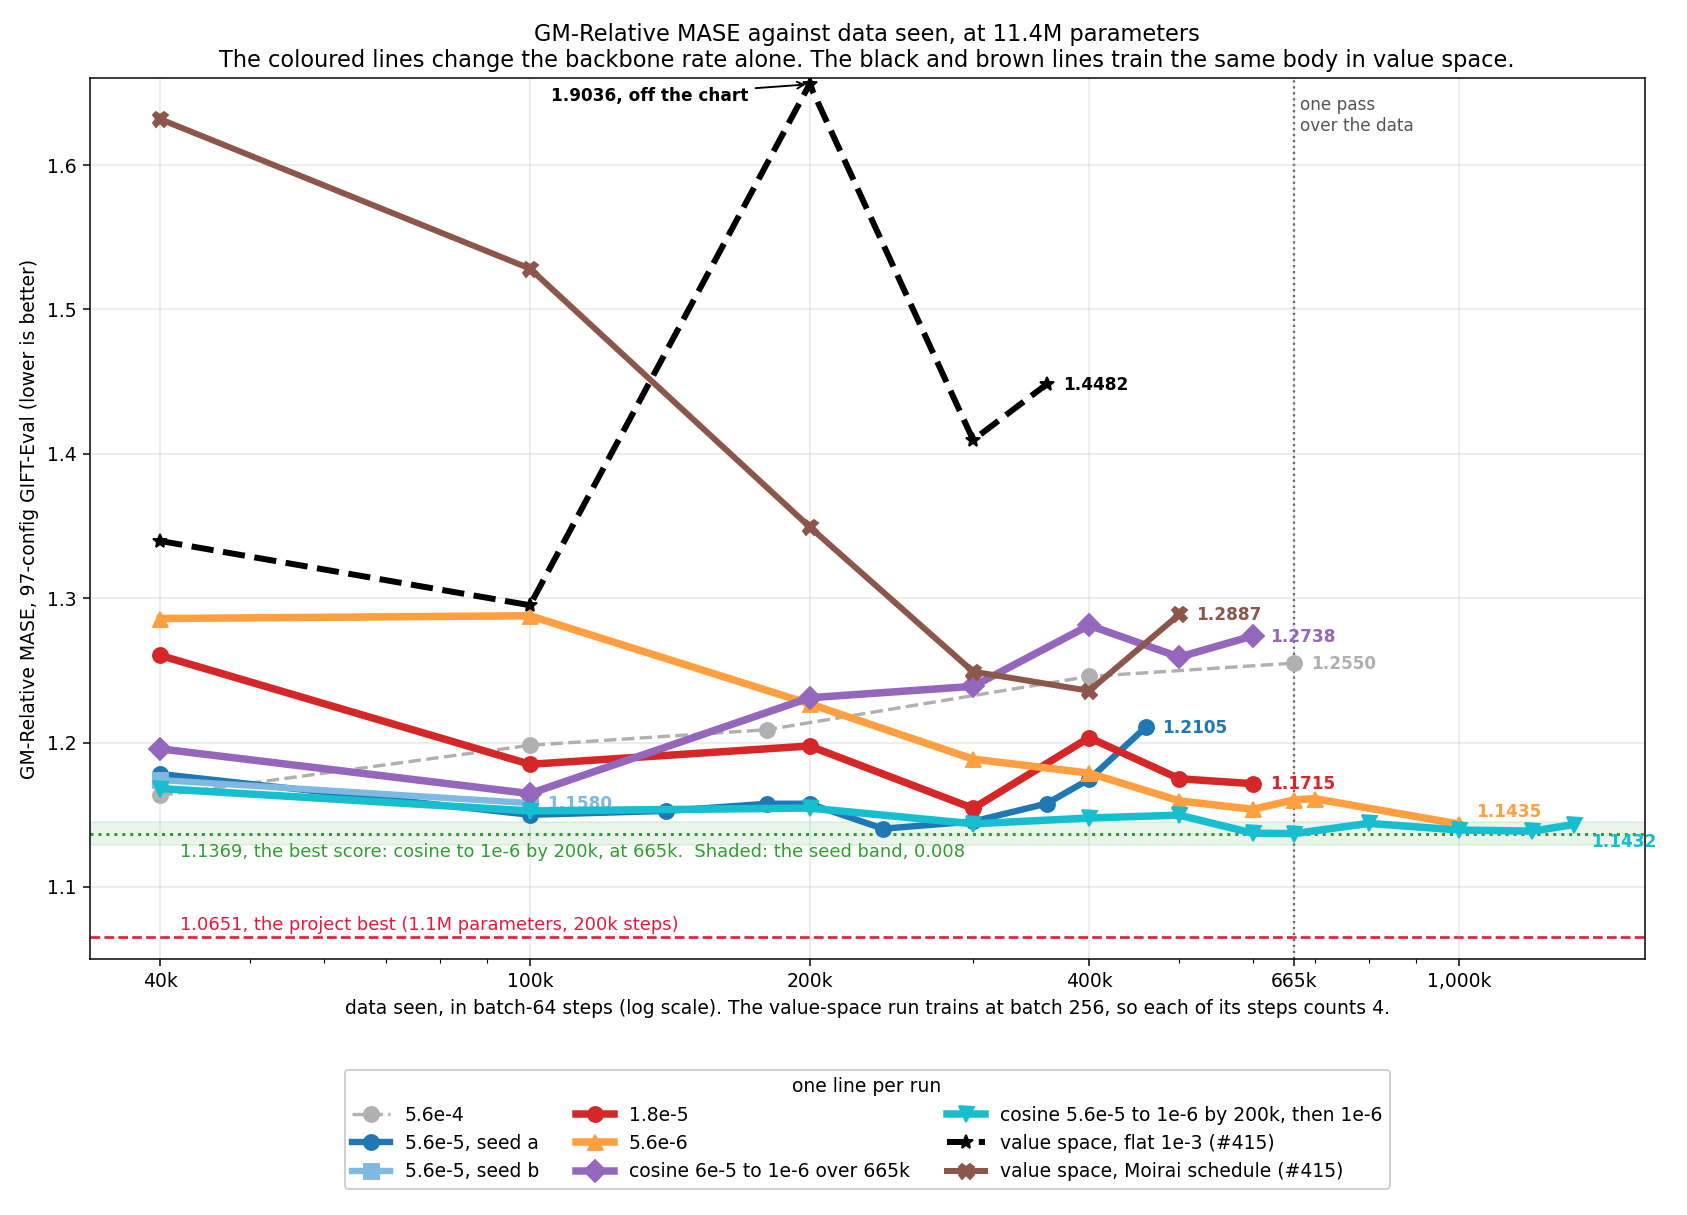
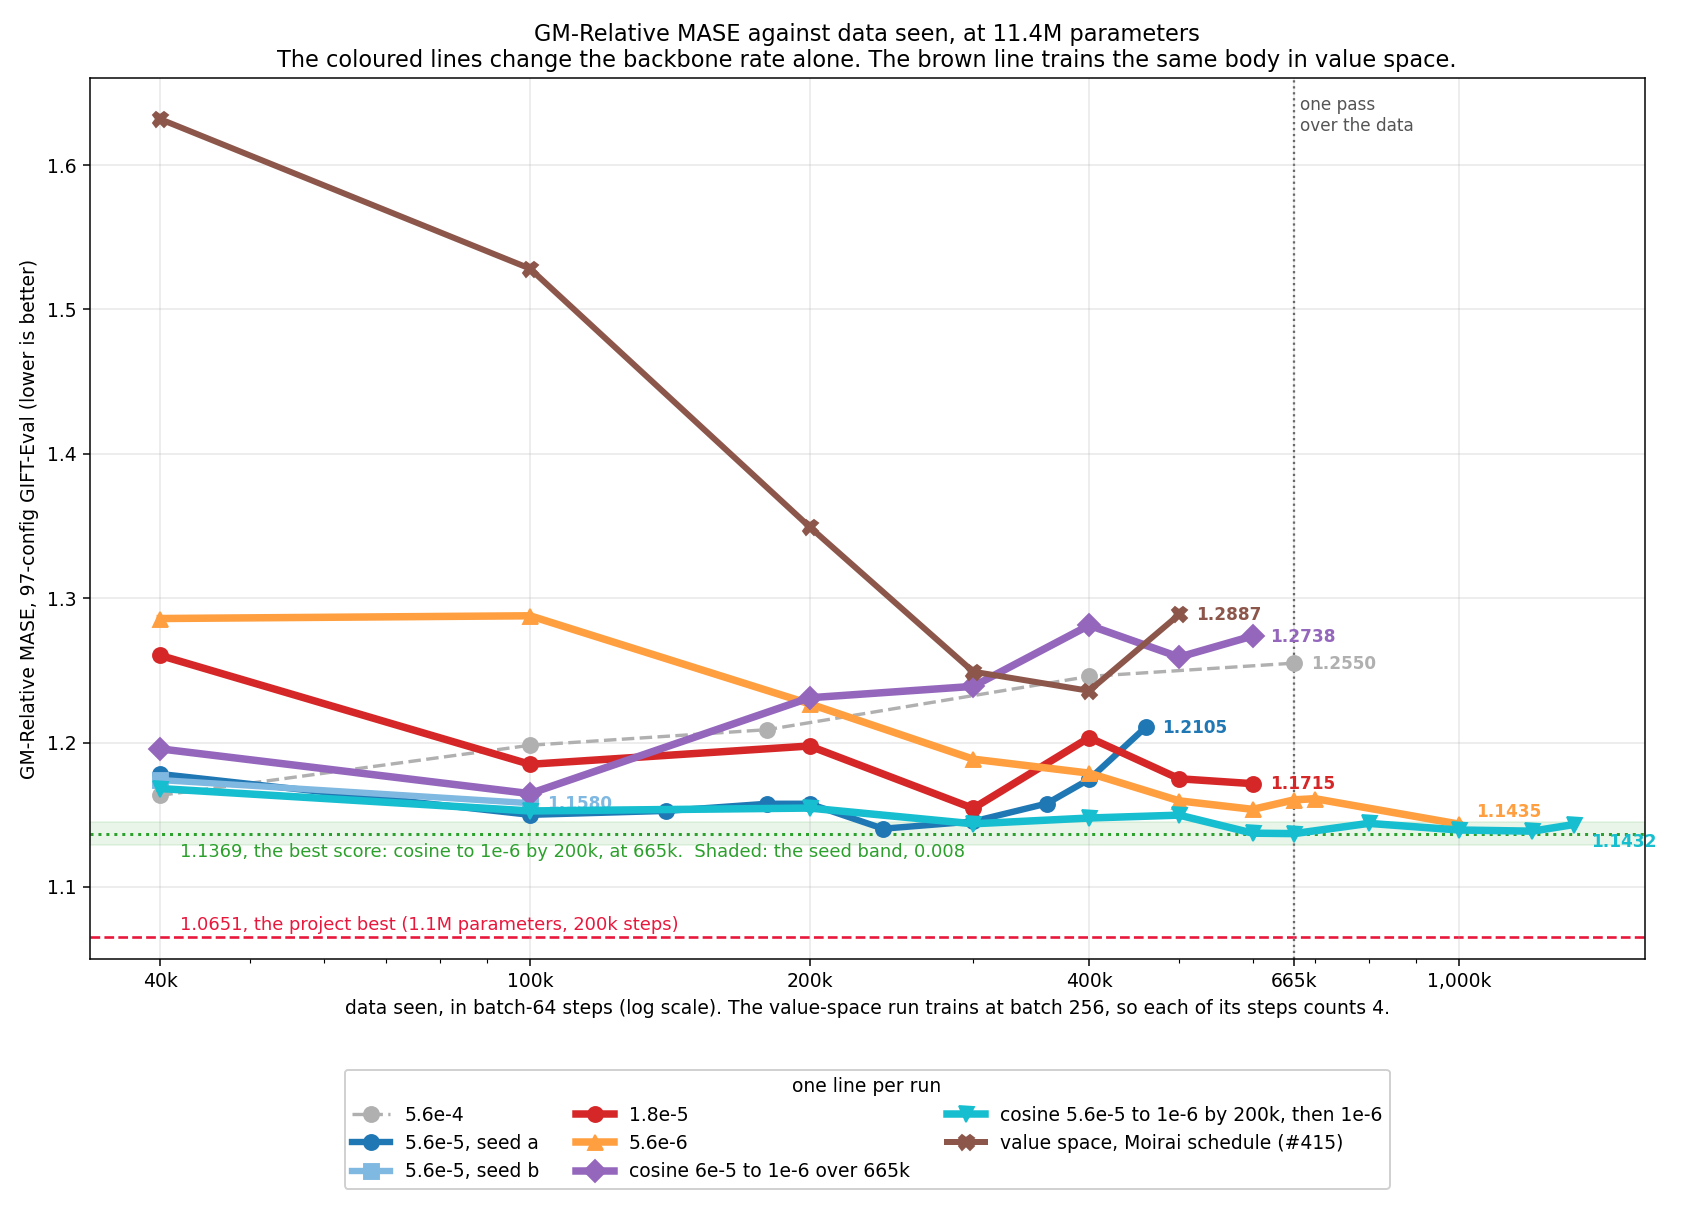
exp(#415): the curves figure drops the flat-rate value run
The owner asked to keep the curves to the runs that matter: the flat run
trained without the Moirai schedule. Its scores stay in the tables.

diff --git a/reports/2026-09-06_moirai_small_size/scripts/plot_gm_rates.py b/reports/2026-09-06_moirai_small_size/scripts/plot_gm_rates.py
@@ -22,12 +22,11 @@ SERIES = [
     (P + "_lr100x",   "5.6e-6",                        "#ff9f40", 4.0, "^", "-"),
     (P + "_cos665k",  "cosine 6e-5 to 1e-6 over 665k", "#9467bd", 4.0, "D", "-"),
     (P + "_cos200k",  "cosine 5.6e-5 to 1e-6 by 200k, then 1e-6", "#17becf", 4.0, "v", "-"),
-    ("cf415_value",   "value space, flat 1e-3 (#415)", "#000000", 3.2, "*", "--"),
     ("cf415_moirai",  "value space, Moirai schedule (#415)", "#8c564b", 3.2, "X", "-"),
 ]
 # The value-space run trains at batch 256: one of its steps holds the data of
 # four batch-64 steps.
-XSCALE = {"cf415_value": 4, "cf415_moirai": 4}
+XSCALE = {"cf415_moirai": 4}
 # Where the last score of a line prints, so two lines that end together part.
 END_LABEL_OFFSET = {P + "_lr100x": (9, 4), P + "_cos200k": (9, -12)}
 BEST, BAND, PROJECT_BEST = 1.1369, 0.008, 1.0651
@@ -92,8 +91,8 @@ def main():
                   "run trains at batch 256, so each of its steps counts 4.")
     ax.set_ylabel("GM-Relative MASE, 97-config GIFT-Eval (lower is better)")
     ax.set_title("GM-Relative MASE against data seen, at 11.4M parameters\n"
-                 "The coloured lines change the backbone rate alone. The black and "
-                 "brown lines train the same body in value space.")
+                 "The coloured lines change the backbone rate alone. The brown line "
+                 "trains the same body in value space.")
     ax.grid(alpha=0.3)
     ax.set_ylim(YMIN, YMAX)
     ax.legend(fontsize=10, loc="upper center", bbox_to_anchor=(0.5, -0.115),

diff --git a/reports/2026-09-06_moirai_small_size/moirai_small_size.md b/reports/2026-09-06_moirai_small_size/moirai_small_size.md
@@ -82,7 +82,7 @@ m4_quarterly by 44% and m4_yearly by 36%.
 
 A first run of the reference used a flat 1e-3 with no warmup and no clip. Its
 loss spiked four times, its best score was 1.2951 at 25,000 steps, and the owner
-stopped it at 92,600 steps. The curves figure shows it as the black line.
+stopped it at 92,600 steps.
 
 ## The tables
 
